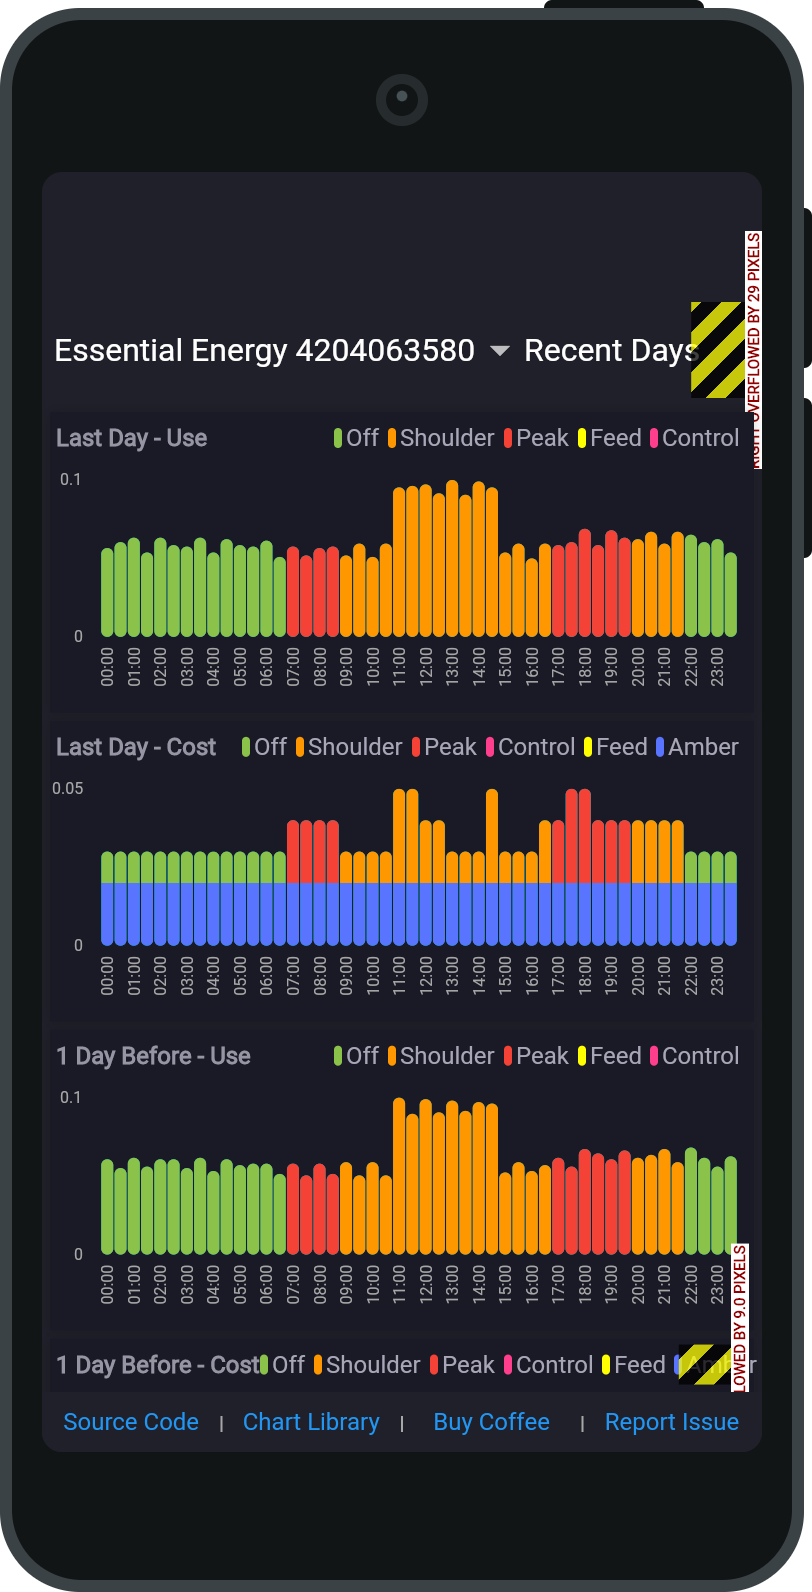
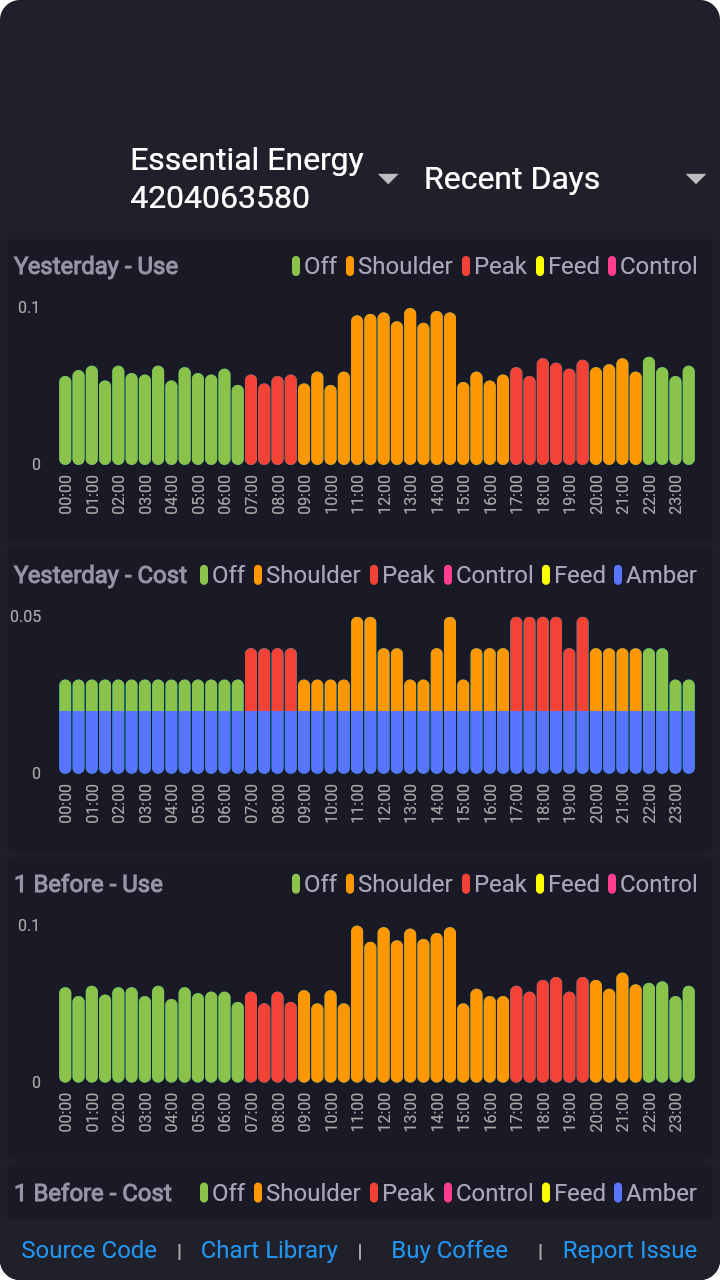
Fixed top menu

diff --git a/lib/main.dart b/lib/main.dart
@@ -145,7 +145,7 @@ class HomePageState extends State<HomePage> {
       // then parse the JSON.
       _sites = (jsonDecode(response.body) as List).map((json) => Site.fromJson(json)).toList();
       int i = 1;
-      return _sites.map((site) => ListItem(site.id!, "${site.network} ${site.nmi}")).toList();
+      return _sites.map((site) => ListItem(site.id!, "${site.network}\n${site.nmi}")).toList();
     } else {
       ScaffoldMessenger.of(context).showSnackBar(SnackBar(content: Text(response.body)));
       // If the server did not return a 200 OK response,
@@ -298,7 +298,7 @@ class HomePageState extends State<HomePage> {
                                         orientation == Orientation.portrait
                                             ? const TextSpan(
                                                 text: '\nThen ', style: TextStyle(height: 1.5))
-                                            : const TextSpan(text: ', Then '),
+                                            : const TextSpan(text: '\nThen '),
                                         TextSpan(
                                           text: 'Generate a new Token',
                                           style: TextStyle(
@@ -368,7 +368,7 @@ class HomePageState extends State<HomePage> {
                                   MyCard(
                                     child: BarChartWidget1(
                                       rawData,
-                                      'Last Day - Use',
+                                      'Yesterday - Use',
                                       const Duration(days: 1),
                                       ending: const Duration(days: 0),
                                       prices: false,
@@ -376,105 +376,105 @@ class HomePageState extends State<HomePage> {
                                   ),
                                   MyCard(
                                       child: BarChartWidget1(
-                                          rawData, 'Last Day - Cost', const Duration(days: 1),
+                                          rawData, 'Yesterday - Cost', const Duration(days: 1),
                                           ending: const Duration(days: 0), prices: true)),
                                   MyCard(
                                       child: BarChartWidget1(
-                                          rawData, '1 Day Before - Use', const Duration(days: 1),
+                                          rawData, '1 Before - Use', const Duration(days: 1),
                                           ending: const Duration(days: 1), prices: false)),
                                   MyCard(
                                       child: BarChartWidget1(
-                                          rawData, '1 Day Before - Cost', const Duration(days: 1),
+                                          rawData, '1 Before - Cost', const Duration(days: 1),
                                           ending: const Duration(days: 1), prices: true)),
                                   MyCard(
                                       child: BarChartWidget1(
-                                          rawData, '2 Days Before - Use', const Duration(days: 1),
+                                          rawData, '2 Before - Use', const Duration(days: 1),
                                           ending: const Duration(days: 2), prices: false)),
                                   MyCard(
                                       child: BarChartWidget1(
-                                          rawData, '2 Days Before - Cost', const Duration(days: 1),
+                                          rawData, '2 Before - Cost', const Duration(days: 1),
                                           ending: const Duration(days: 2), prices: true)),
                                   MyCard(
                                       child: BarChartWidget1(
-                                          rawData, '3 Days Before - Use', const Duration(days: 1),
+                                          rawData, '3 Before - Use', const Duration(days: 1),
                                           ending: const Duration(days: 3), prices: false)),
                                   MyCard(
                                       child: BarChartWidget1(
-                                          rawData, '3 Days Before - Cost', const Duration(days: 1),
+                                          rawData, '3 Before - Cost', const Duration(days: 1),
                                           ending: const Duration(days: 3), prices: true)),
                                   MyCard(
                                       child: BarChartWidget1(
-                                          rawData, '4 Days Before - Use', const Duration(days: 1),
+                                          rawData, '4 Before - Use', const Duration(days: 1),
                                           ending: const Duration(days: 4), prices: false)),
                                   MyCard(
                                       child: BarChartWidget1(
-                                          rawData, '4 Days Before - Cost', const Duration(days: 1),
+                                          rawData, '4 Before - Cost', const Duration(days: 1),
                                           ending: const Duration(days: 4), prices: true)),
                                   MyCard(
                                       child: BarChartWidget1(
-                                          rawData, '5 Days Before - Use', const Duration(days: 1),
+                                          rawData, '5 Before - Use', const Duration(days: 1),
                                           ending: const Duration(days: 5), prices: false)),
                                   MyCard(
                                       child: BarChartWidget1(
-                                          rawData, '5 Days Before - Cost', const Duration(days: 1),
+                                          rawData, '5 Before - Cost', const Duration(days: 1),
                                           ending: const Duration(days: 5), prices: true)),
                                   MyCard(
                                       child: BarChartWidget1(
-                                          rawData, '6 Days Before - Use', const Duration(days: 1),
+                                          rawData, '6 Before - Use', const Duration(days: 1),
                                           ending: const Duration(days: 6), prices: false)),
                                   MyCard(
                                       child: BarChartWidget1(
-                                          rawData, '6 Days Before - Cost', const Duration(days: 1),
+                                          rawData, '6 Before - Cost', const Duration(days: 1),
                                           ending: const Duration(days: 6), prices: true)),
                                 ]
                               : _dropdownItemSelected.value == _dropdownItems[1].value
                                   ? [
                                       MyCard(
                                           child: BarChartWidget1(
-                                              rawData, 'Last 1 Day - Use', const Duration(days: 1),
+                                              rawData, 'Last 1 - Use', const Duration(days: 1),
                                               prices: false)),
                                       MyCard(
                                           child: BarChartWidget1(
-                                              rawData, 'Last 1 Day - Cost', const Duration(days: 1),
+                                              rawData, 'Last 1 - Cost', const Duration(days: 1),
                                               prices: true)),
                                       MyCard(
                                           child: BarChartWidget1(
-                                              rawData, 'Last 2 Days - Use', const Duration(days: 2),
+                                              rawData, 'Last 2 - Use', const Duration(days: 2),
                                               prices: false)),
                                       MyCard(
-                                          child: BarChartWidget1(rawData, 'Last 2 Days - Cost',
+                                          child: BarChartWidget1(rawData, 'Last 2 - Cost',
                                               const Duration(days: 2),
                                               prices: true)),
                                       MyCard(
                                           child: BarChartWidget1(
-                                              rawData, 'Last 7 Days - Use', const Duration(days: 7),
+                                              rawData, 'Last 7 - Use', const Duration(days: 7),
                                               prices: false)),
                                       MyCard(
-                                          child: BarChartWidget1(rawData, 'Last 7 Days - Cost',
+                                          child: BarChartWidget1(rawData, 'Last 7 - Cost',
                                               const Duration(days: 7),
                                               prices: true)),
                                       MyCard(
-                                          child: BarChartWidget1(rawData, 'Last 14 Days - Use',
+                                          child: BarChartWidget1(rawData, 'Last 14 - Use',
                                               const Duration(days: 14),
                                               prices: false)),
                                       MyCard(
-                                          child: BarChartWidget1(rawData, 'Last 14 Days - Cost',
+                                          child: BarChartWidget1(rawData, 'Last 14 - Cost',
                                               const Duration(days: 14),
                                               prices: true)),
                                       MyCard(
-                                          child: BarChartWidget1(rawData, 'Last 21 Days - Use',
+                                          child: BarChartWidget1(rawData, 'Last 21 - Use',
                                               const Duration(days: 21),
                                               prices: false)),
                                       MyCard(
-                                          child: BarChartWidget1(rawData, 'Last 21 Days - Cost',
+                                          child: BarChartWidget1(rawData, 'Last 21 - Cost',
                                               const Duration(days: 21),
                                               prices: true)),
                                       MyCard(
-                                          child: BarChartWidget1(rawData, 'Last 28 Days - Use',
+                                          child: BarChartWidget1(rawData, 'Last 28 - Use',
                                               const Duration(days: 28),
                                               prices: false)),
                                       MyCard(
-                                          child: BarChartWidget1(rawData, 'Last 28 Days - Cost',
+                                          child: BarChartWidget1(rawData, 'Last 28 - Cost',
                                               const Duration(days: 28),
                                               prices: true)),
                                     ]
